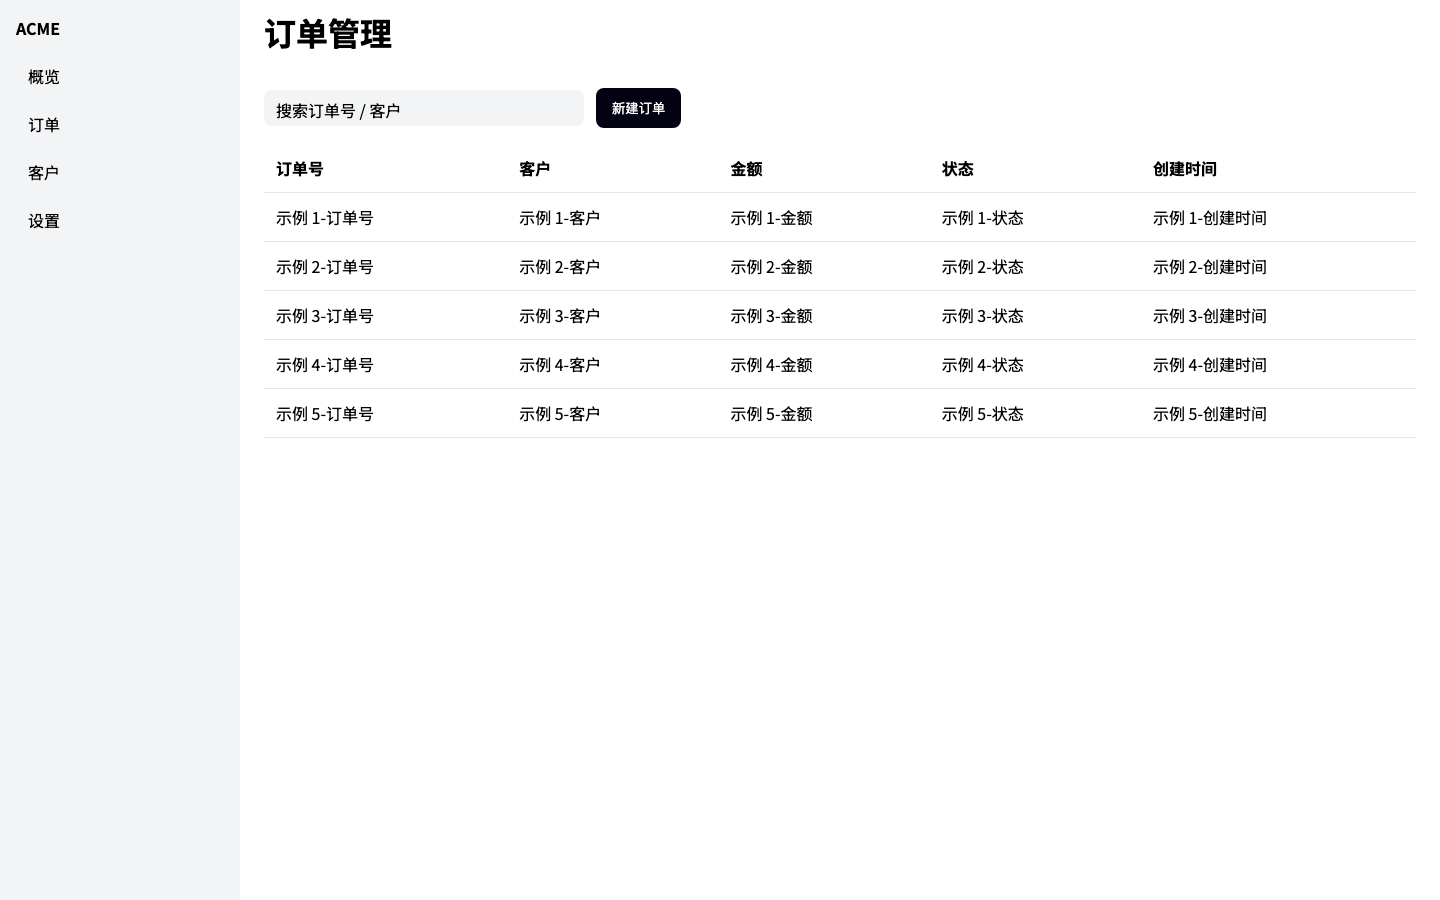
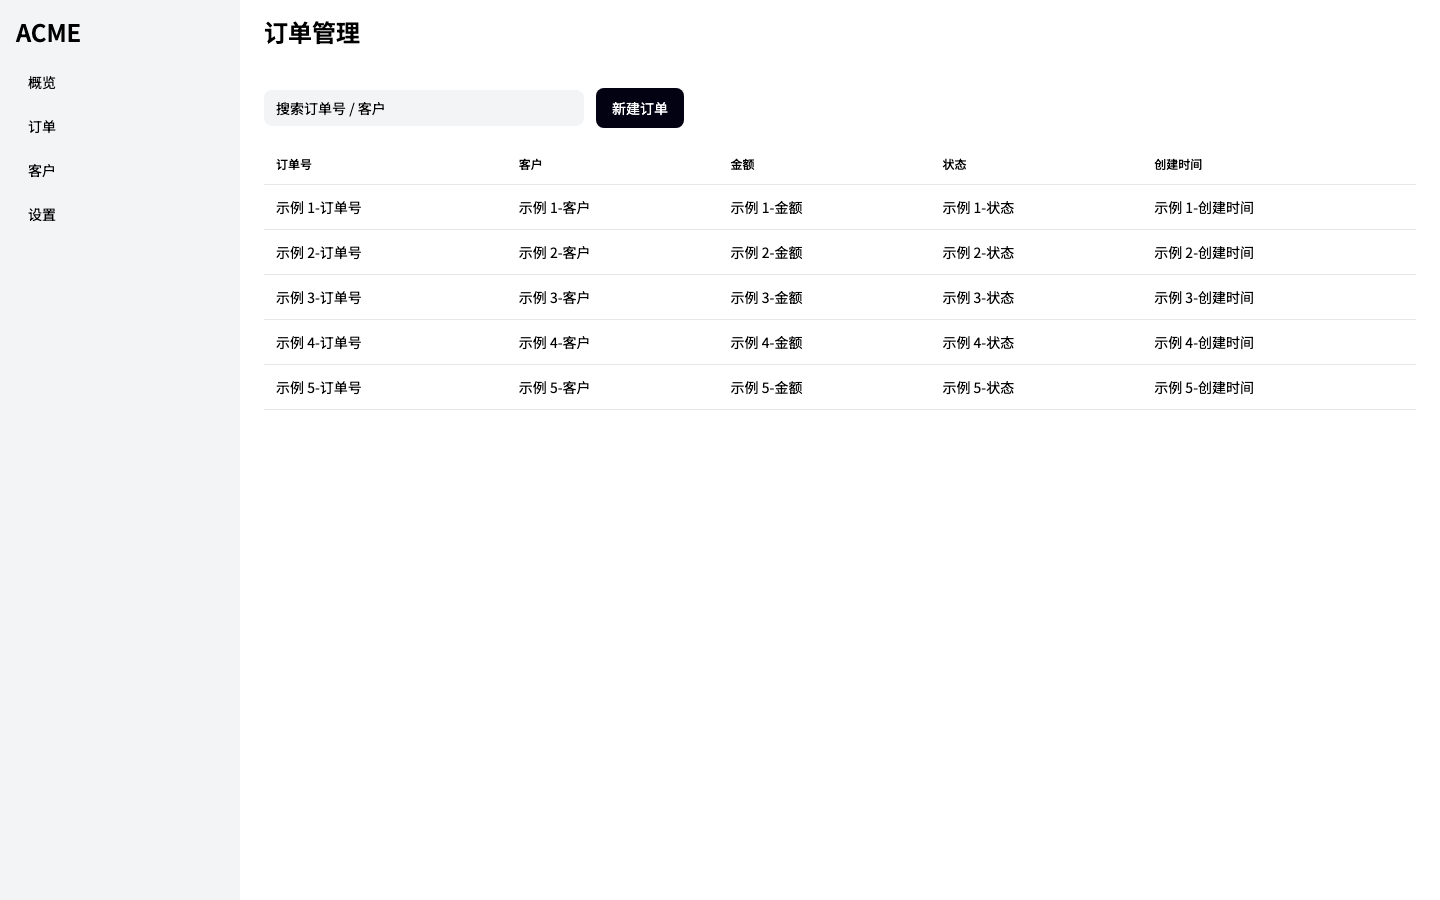
fix: align html typography to profile tokens

diff --git a/spike/html/src/components.tsx b/spike/html/src/components.tsx
@@ -5,16 +5,16 @@ function PageShell({ title, nav = [], children }: any) {
   return (
     <div className="shell">
       <aside className="sidebar">
-        <div className="brand">ACME</div>
+        <div className="brand text-heading-2">ACME</div>
         {nav.map((item: string) => (
-          <div className="nav-item" key={item}>
+          <div className="nav-item text-body-md" key={item}>
             {item}
           </div>
         ))}
       </aside>
       <main className="content">
         <header className="header">
-          <h1>{title}</h1>
+          <h1 className="text-heading-2">{title}</h1>
         </header>
         {children}
       </main>
@@ -29,8 +29,8 @@ function Section({ children }: any) {
 function FilterBar({ placeholder, action }: any) {
   return (
     <div className="filter-bar">
-      <div className="search">{placeholder}</div>
-      <button className="primary-button">{action}</button>
+      <div className="search text-body-md">{placeholder}</div>
+      <button className="primary-button text-body-md">{action}</button>
     </div>
   );
 }
@@ -41,7 +41,7 @@ function DataTable({ columns, rows = 3 }: any) {
       <thead>
         <tr>
           {columns.map((column: string) => (
-            <th key={column}>{column}</th>
+            <th className="text-label-sm" key={column}>{column}</th>
           ))}
         </tr>
       </thead>
@@ -49,7 +49,7 @@ function DataTable({ columns, rows = 3 }: any) {
         {Array.from({ length: rows }, (_, rowIndex) => (
           <tr key={rowIndex}>
             {columns.map((column: string) => (
-              <td key={column}>
+              <td className="text-body-md" key={column}>
                 示例 {rowIndex + 1}-{column}
               </td>
             ))}
@@ -64,12 +64,14 @@ function MobileShell({ title, tabs = [], children }: any) {
   return (
     <div className="mobile-shell">
       <header className="mobile-header">
-        <h1>{title}</h1>
+        <h1 className="text-heading-1">{title}</h1>
       </header>
       <main className="mobile-content">{children}</main>
       <nav className="bottom-nav">
         {tabs.map((tab: string) => (
-          <div key={tab}>{tab}</div>
+          <div className="text-label-sm" key={tab}>
+            {tab}
+          </div>
         ))}
       </nav>
     </div>
@@ -80,8 +82,8 @@ function FeedCard({ title, body }: any) {
   return (
     <article className="feed-card">
       <div className="cover" />
-      <h2>{title}</h2>
-      <p>{body}</p>
+      <h2 className="text-heading-3">{title}</h2>
+      <p className="text-body-md">{body}</p>
     </article>
   );
 }

diff --git a/spike/html/src/App.tsx b/spike/html/src/App.tsx
@@ -1,7 +1,9 @@
+import type { CSSProperties } from "react";
 import bSpec from "../../spec/page-spec.b-end.json";
 import cSpec from "../../spec/page-spec.c-end.json";
 import bProfile from "../../spec/profile.b-dense.json";
 import cProfile from "../../spec/profile.c-expressive.json";
+import type { Profile } from "../../plan/types";
 import { renderSpec } from "./components";
 
 const pages = {
@@ -9,8 +11,36 @@ const pages = {
   c: { spec: cSpec, profile: cProfile },
 };
 
+const typeTokens = ["heading.1", "heading.2", "heading.3", "body.md", "label.sm"] as const;
+type TypeToken = (typeof typeTokens)[number];
+
+const typeNames: Record<TypeToken, string> = {
+  "heading.1": "heading-1",
+  "heading.2": "heading-2",
+  "heading.3": "heading-3",
+  "body.md": "body-md",
+  "label.sm": "label-sm",
+};
+
+function typographyVars(profile: Profile): CSSProperties {
+  const vars: Record<string, string> = {};
+  for (const token of typeTokens) {
+    const style = profile.typography[token];
+    const name = typeNames[token];
+    vars[`--${name}-size`] = `${style.fontSize}px`;
+    vars[`--${name}-line-height`] = `${style.lineHeight}px`;
+    vars[`--${name}-weight`] = `${style.fontWeight}`;
+    vars[`--${name}-family`] = style.fontFamily;
+  }
+  return vars as CSSProperties;
+}
+
 export default function App() {
   const key = new URLSearchParams(window.location.search).get("page") === "c" ? "c" : "b";
   const { spec, profile } = pages[key];
-  return <div data-profile={profile.name}>{renderSpec(spec.layout)}</div>;
+  return (
+    <div data-profile={profile.name} style={typographyVars(profile as Profile)}>
+      {renderSpec(spec.layout)}
+    </div>
+  );
 }

diff --git a/spike/html/src/tokens.css b/spike/html/src/tokens.css
@@ -162,3 +162,15 @@ body {
   background: #fff;
   border-top: 1px solid var(--border);
 }
+
+[data-profile] {
+  font-size: var(--body-md-size, 14px);
+  line-height: var(--body-md-line-height, 20px);
+  font-weight: var(--body-md-weight, 400);
+  font-family: var(--body-md-family, "Noto Sans SC", "PingFang SC", system-ui, sans-serif);
+}
+.text-heading-1 { font-family: var(--heading-1-family, "Noto Sans SC", "PingFang SC", system-ui, sans-serif); font-size: var(--heading-1-size, 28px); line-height: var(--heading-1-line-height, 36px); font-weight: var(--heading-1-weight, 700); }
+.text-heading-2 { font-family: var(--heading-2-family, "Noto Sans SC", "PingFang SC", system-ui, sans-serif); font-size: var(--heading-2-size, 24px); line-height: var(--heading-2-line-height, 32px); font-weight: var(--heading-2-weight, 600); }
+.text-heading-3 { font-family: var(--heading-3-family, "Noto Sans SC", "PingFang SC", system-ui, sans-serif); font-size: var(--heading-3-size, 18px); line-height: var(--heading-3-line-height, 26px); font-weight: var(--heading-3-weight, 600); }
+.text-body-md { font-family: var(--body-md-family, "Noto Sans SC", "PingFang SC", system-ui, sans-serif); font-size: var(--body-md-size, 14px); line-height: var(--body-md-line-height, 20px); font-weight: var(--body-md-weight, 400); }
+.text-label-sm { font-family: var(--label-sm-family, "Noto Sans SC", "PingFang SC", system-ui, sans-serif); font-size: var(--label-sm-size, 12px); line-height: var(--label-sm-line-height, 16px); font-weight: var(--label-sm-weight, 500); }

diff --git a/spike/figma-plugin/dist/code.js b/spike/figma-plugin/dist/code.js
@@ -630,7 +630,8 @@
                       textStyle: "body.md"
                     }
                   ],
-                  padding: 16,
+                  paddingX: 16,
+                  paddingY: 12,
                   gap: 12,
                   fill: "color.surface.default",
                   layoutAlign: "STRETCH"
@@ -671,7 +672,8 @@
                       textStyle: "body.md"
                     }
                   ],
-                  padding: 16,
+                  paddingX: 16,
+                  paddingY: 12,
                   gap: 12,
                   fill: "color.surface.default",
                   layoutAlign: "STRETCH"

diff --git a/spike/plan/compile-plan.test.ts b/spike/plan/compile-plan.test.ts
@@ -78,7 +78,11 @@ describe("compilePlan", () => {
     const feedTexts = findAllNodes(plan.root, "FeedText");
     expect(feedTexts).toHaveLength(2);
     for (const feedText of feedTexts) {
-      expect(feedText).toMatchObject({ type: "FRAME", padding: 16 });
+      expect(feedText).toMatchObject({
+        type: "FRAME",
+        paddingX: 16,
+        paddingY: 12,
+      });
     }
 
     expect(findNode(plan.root, "BottomNav")).toMatchObject({

diff --git a/spike/plan/compile-plan.ts b/spike/plan/compile-plan.ts
@@ -355,7 +355,8 @@ function compileNode(node: SpecNode, ctx: CompileContext): PlanNode {
               ),
             ],
             {
-              padding: ctx.space("space.4", "4"),
+              paddingX: ctx.space("space.4", "4"),
+              paddingY: ctx.space("space.3", "3"),
               gap: ctx.space("space.3", "3"),
               fill: "color.surface.default",
               layoutAlign: "STRETCH",

diff --git a/spike/report.md b/spike/report.md
@@ -27,8 +27,8 @@
 | plan 编译 | **pass** | `spike/spec/figma-plan.{b,c}-end.json` | `pnpm plan` 生成两份 plan；B 有 12 个 `STRETCH` + Content `layoutGrow: 1`，C 有 4 个 `STRETCH` |
 | HTML 构建 | **pass** | `spike/dist-html/` | Vite 构建成功，21 个模块 |
 | HTML 布局 / 无溢出 | **pass** | `spike/artifacts/b-end.png`、`spike/artifacts/c-end.png` | `pnpm test:e2e` 2 passed；console / pageerror 断言为空（自动化）；两张截图已人工查看 |
-| Figma 插件构建 | **pass** | `spike/figma-plugin/dist/code.js` | `pnpm build:figma` exit 0；bundle 32,597 bytes，含两份 plan，无未解析 import |
-| 类型检查 | **not clean（非门禁）** | `tsc --noEmit` | 插件 JSON import 推断导致 8 个 type-only 错误；`build-plans.ts` 缺 `@types/node`；CSS side-effect import 缺 `vite/client`。esbuild / vitest / Vite 构建均不受影响；计划没有把 `tsc` 设为 Phase 0 门禁 |
+| Figma 插件构建 | **pass** | `spike/figma-plugin/dist/code.js` | `pnpm build:figma` exit 0；bundle 32,663 bytes，含两份 plan，无未解析 import |
+| 类型检查 | **not clean（非门禁）** | `tsc --noEmit` | 插件包 `tsc --noEmit` 报告 19 个 type-only 错误（JSON 推断 + 新增字段读取）；`build-plans.ts` 缺 `@types/node`；CSS side-effect import 缺 `vite/client`。esbuild / vitest / Vite 构建均不受影响；计划没有把 `tsc` 设为 Phase 0 门禁 |
 
 ## Figma 人工结果（待执行）
 
@@ -49,7 +49,8 @@
 ### 实现过程中对计划代码的修正
 
 - **Auto Layout 尺寸**：计划的插件代码设置 `layoutMode` 后没有设置 sizing mode，frame 会停留在 100×100；fill 轴保持 `AUTO` 也与 Figma 类型约束冲突。已新增 `layoutGrow` / `layoutAlign` 字段与纯函数 `resolveSizingModes`，保证 fill 轴为 `FIXED`、hug 轴为 `AUTO`，并新增 14 个单元测试。
-- **最终验收前对齐修复**：C 端新增 `FeedContent` 包裹层（padding 16 / gap 16），FeedCard 宽 358、封面满宽、`FeedText` 内缩 16，与 HTML 一致；文本填充绑定 `color.text.primary`；Header / TopBar / Search 改为水平 padding 并垂直居中，FilterBar / HeaderRow / Row 垂直居中，BottomNav 两端对齐；图标按 plan `size` 缩放；表格示例文案改用列名。以上均在最终修复波次完成。
+- **最终验收前对齐修复**：C 端新增 `FeedContent` 包裹层（padding 16 / gap 16），FeedCard 宽 358、封面满宽、`FeedText` 水平内缩 16px / 垂直 12px，与 HTML 一致；文本填充绑定 `color.text.primary`；Header / TopBar / Search 改为水平 padding 并垂直居中，FilterBar / HeaderRow / Row 垂直居中，BottomNav 两端对齐；图标按 plan `size` 缩放；表格示例文案改用列名。以上均在最终修复波次完成。
+- **HTML 字体层级**：HTML renderer 现在通过 CSS 变量消费 profile typography（`heading.1/2/3`、`body.md`、`label.sm`），字号 / 行高 / 字重与 Figma 对应文本样式一致（仅受字体回退影响）。
 - **Zod v4**：计划测试使用 Zod 3 的单参数 `z.record()`；安装的是 Zod 4，改为双参数形式，语义等价。
 - **`findNode` 测试 helper**：计划中的 guard 顺序会让 ICON 节点永远找不到；调整为先比较 name，再判断 type，断言未变。
 - **Vite 预览地址**：`vite preview` 默认只绑定 `::1`，已给 `preview:html` / `dev:html` 加 `--host 127.0.0.1`，与计划中的 URL 和 Playwright `baseURL` 一致。

diff --git a/spike/artifacts/figma/checklist.md b/spike/artifacts/figma/checklist.md
@@ -35,6 +35,14 @@
 | 8 | 图片填充 | C 端 FeedCard 封面为 IMAGE 填充 | `08-image.png` |
 | 9 | HTML / Figma 一致性 | 两边布局、字号层级、间距节奏肉眼接近；已知偏差见下 | `09-side-by-side.png` |
 
+## 已对齐（本轮 parity 修复，验收时按已对齐检查）
+
+- C 端 FeedContent 16px 包裹与 16px 卡片间距；FeedCard 358 宽、封面 358×180 全宽。
+- 文本填充绑定 `color.text.primary`。
+- Header / TopBar / Search 使用水平 padding + 垂直居中；BottomNav 使用 space-between。
+- 表格正文单元格使用列名，与 HTML 一致；ICON 尺寸来自 plan。
+- HTML 字体层级已消费 profile type scale（heading.1/2/3、body.md、label.sm）。
+
 ## 已知偏差（预期内，不算失败）
 
 这些是 `spike` 代码的已知限制，验收时只需确认“符合预期”，不要当作新 bug：
@@ -50,7 +58,7 @@
 - **Button 组件集位置**：组件集创建在页面原点，根 Frame 也追加在 0,0，可能遮挡组件集；用图层面板查看即可。
 - **文本样式同名重复**：两个页面都会创建 `heading.1/2/3`、`body.md`、`label.sm`；每个文本节点使用各自正确的 style ID，但本地样式面板会出现重复项。
 - **重复运行会产生重复内容**：在同一文件再次运行插件会创建重复的 `Spike B` / `Spike C` 页面、变量集合和文本样式；请使用全新的空白文件。
-- **Bar 内边距与垂直对齐**：Header / TopBar / Search 已改为水平方向 padding（Header、TopBar `paddingY: 0`，Search `paddingY: 8`）并设置垂直居中；其他 frame 仍使用统一 padding。
+- **其他普通容器 padding**：除已对齐的 Header / TopBar / Search 外，其他帧仍使用统一 padding。
 
 ## 结论填写
 
